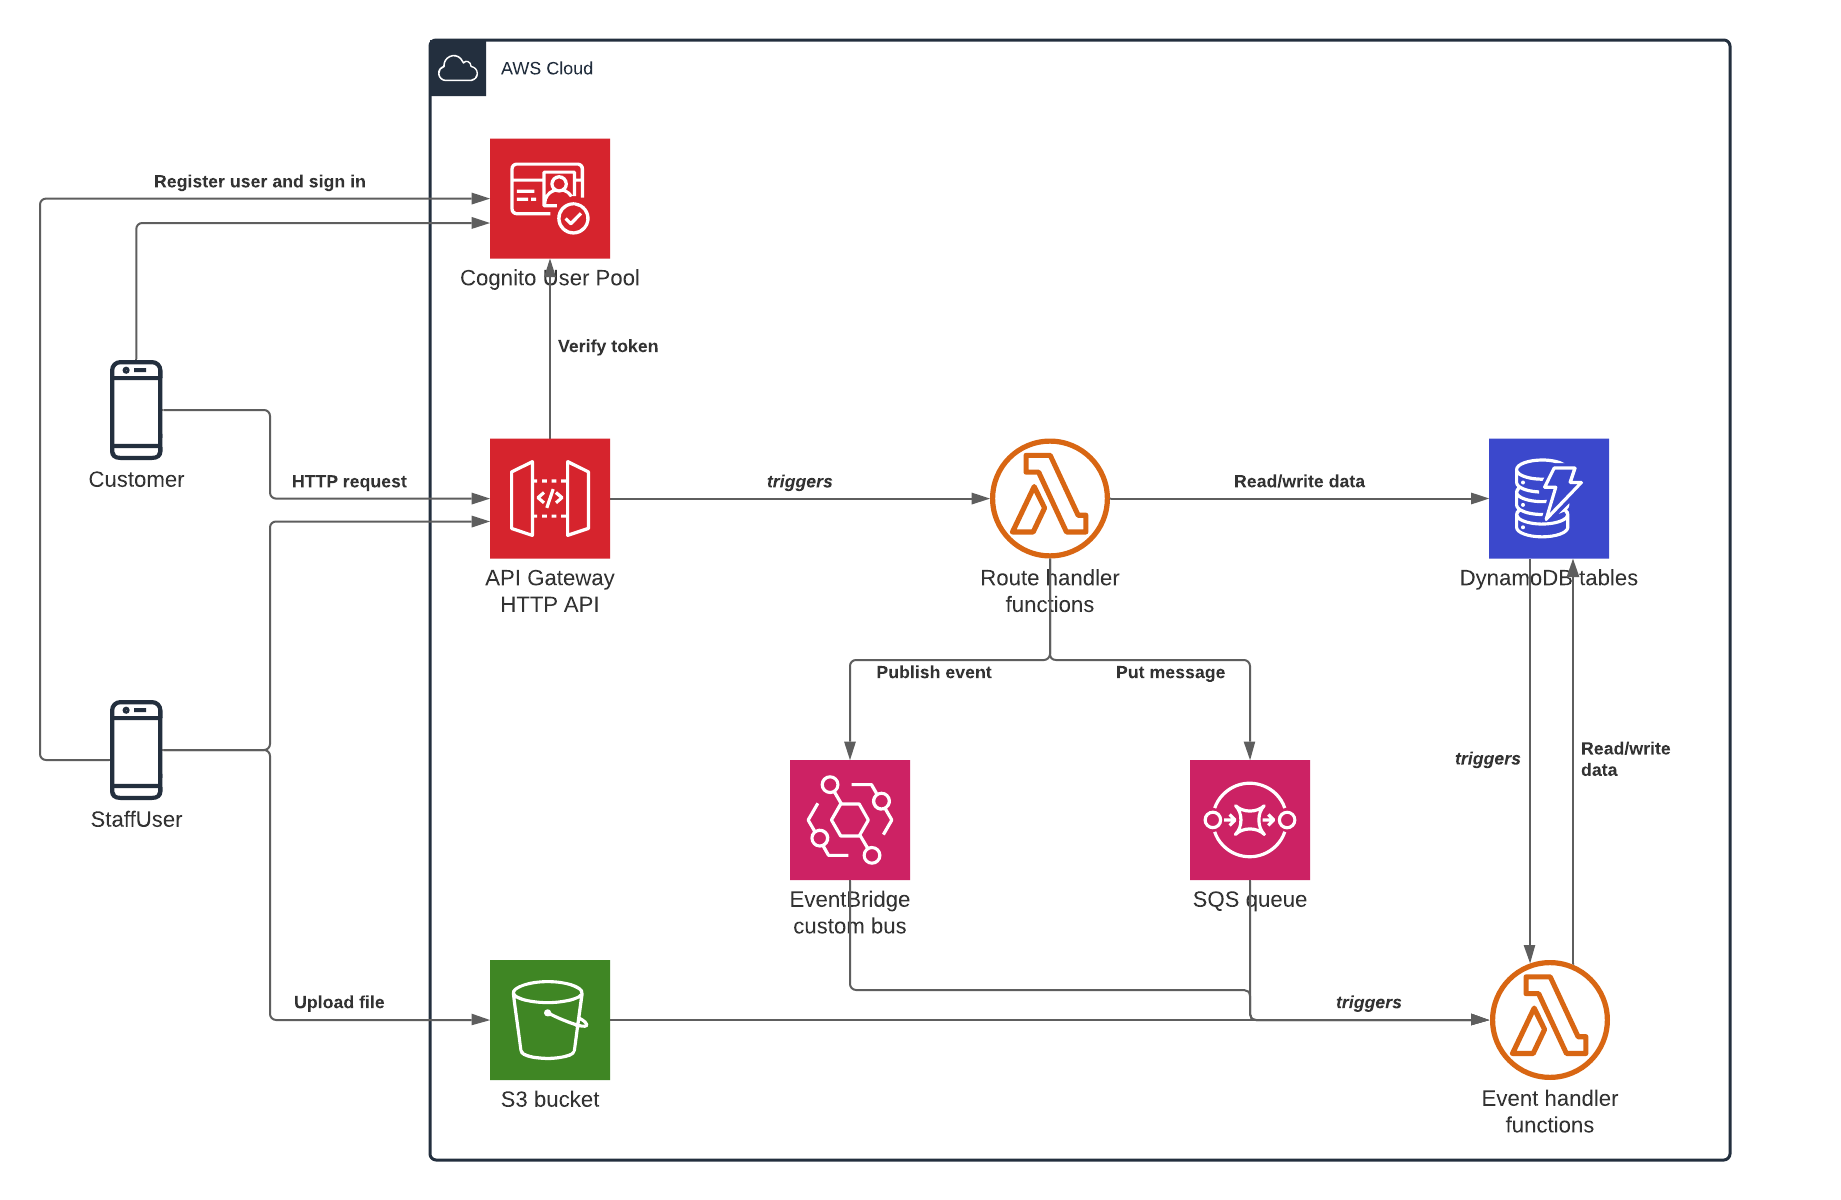
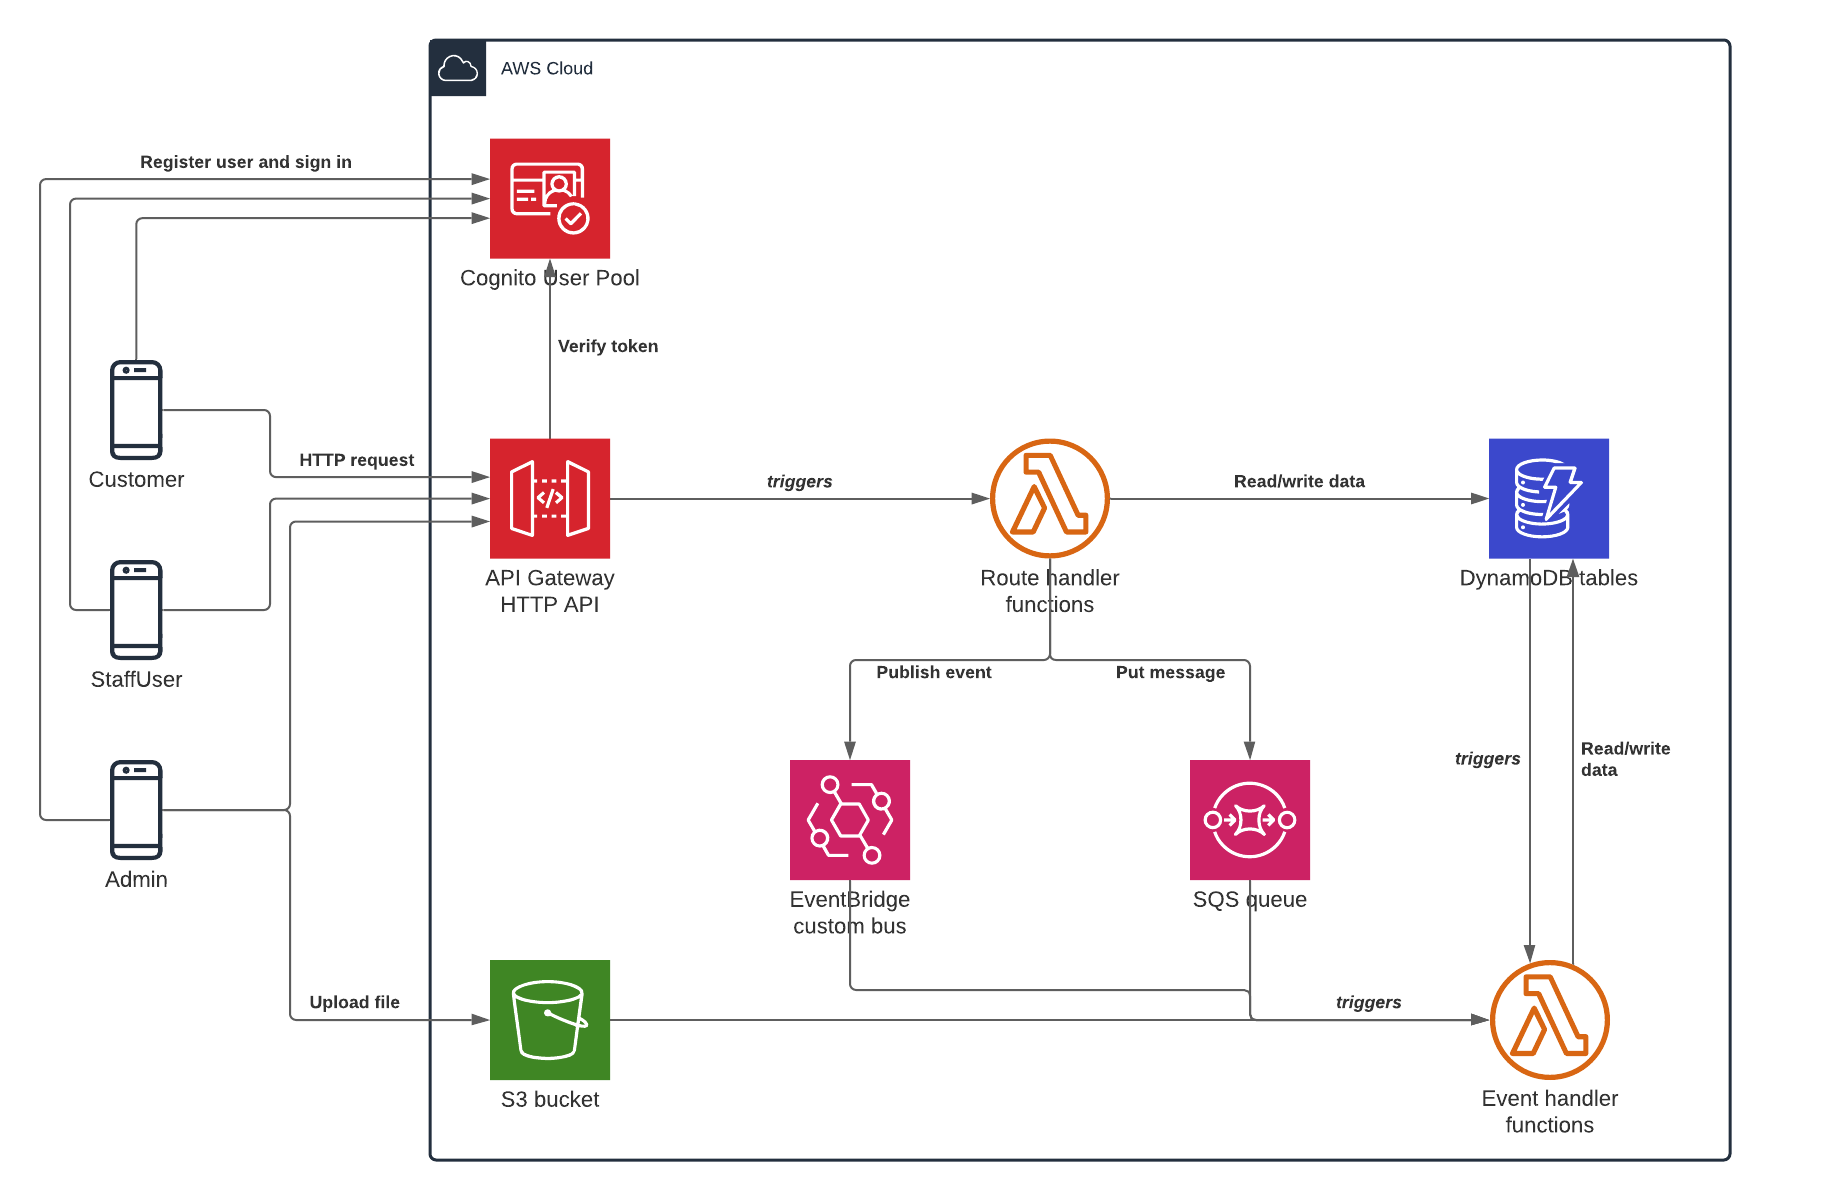
Architecture diagram and description updated to reflect three user roles.

diff --git a/docs/architecture.md b/docs/architecture.md
@@ -40,18 +40,22 @@ Data will reside in multiple tables, e.g. Users, Restaurants and Seatings.
 
 ## User roles
 
-The application supports two user roles:
+The application supports three user roles:
 
 - Customers
 - StaffUsers
+- Admins, i.e. restaurant owner
 
-Two Cognito groups are used to manage the permissions of these roles.
+Three Cognito groups are used to manage the permissions of these roles.
 
-Two Cognito app clients ensure that users are added to the correct group when signing up.
+Two Cognito app clients ensures access to Cognito API operations for client applications (frontend's) consuming the ROSS API.
 
-** Q: How will we actually ensure this? Either 1) An admin role should exist that verifies and activates new StaffUsers, or 2) StaffUsers should be created only via the AWS Cognito Console, by an admin with access to manage users and permissions. **
+Generally, Cognito will be used to store login credentials only and other user attributes and preferences will be stored in the DynamoDB "Users" table. However, to simplify the registring process for StaffUsers and Admins, the following custom attributes exist for StaffUsers and Admins in Cognito:
 
-Cognito will be used to store login credentials only. Other user attributes will be stored in a designated DynamoDB table.
+- restaurantId
+- restaurantRole
+
+_restaurantId_ will hold the id of the restaurant where the user is engaged. _restaurantRole_ can hold values STAFF or ADMIN.
 
 ## Client apps
 
